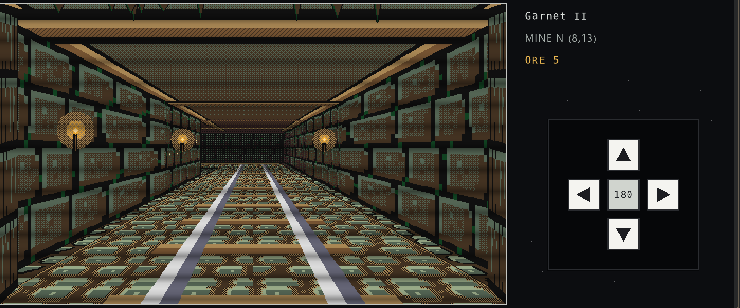
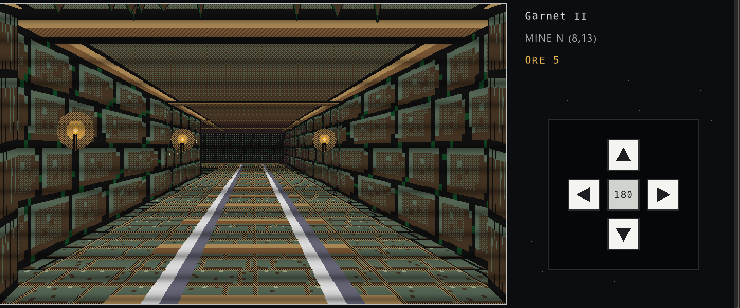
overworld: lay the road and mine floor as staggered slab courses

Changed region(s): [[0.0, 0.526, 0.6838, 0.9935]]

diff --git a/cpp/ui/Overworld.cpp b/cpp/ui/Overworld.cpp
@@ -1222,41 +1222,43 @@ void ShellView::RenderPlanetSurfacePixels(const Simulation& sim) {
       "................................",
   };
   static constexpr TileTex32 kStoneWallTex = TileTex32::FromArt(kStoneWallArt);
-  // Clouds of Xeen irregular rounded riverstone / cobblestone road tiles
-  // ('.'=crisp dark stone outline, ':'=warm earth mortar, '+'=stone face, '#'=sunlit stone crown)
+  // 242-row surface roads and underground flagstones: four staggered courses of
+  // wide slabs, each course a stone face with a shadowed underside and one ink
+  // seam row ('.'=ink joint, ':'=shadow under the slab above, '+'=stone face,
+  // '#'=chipped sunlit rim)
   static constexpr char kCobbleRoadArt[32][33] = {
-      "::.#####.:::::.######.::::.###.:",
-      ":.#######.:::.########.::.#####.",
-      ":.#++++++.:.:.#+++++++.::.#++++.",
-      ":.#++#+++.:::.#+++#+++.::.#++++.",
-      "::.++++++.::::.+++++++.:::.++++.",
-      ":::......::::::.......:::::....:",
-      "::::::::::::::::::::::::::::::::",
-      "####.:::::.########.::::.#####.:",
-      "++++.::::.##########.::.######.:",
-      "+++..::::.#+++++++++.::.#+++++.:",
-      "++..:::::.#+++#+++++.::.#++#++.:",
-      "...:::::::.+++++++++.:::.+++++.:",
-      ":::::::::::.........:::::.....::",
-      "::::::::::::::::::::::::::::::::",
-      "::.######.::::.#######.::::.###.",
-      ":.########.::.#########.::.#####",
-      ":.#+++++++.::.#++++++++.::.#++++",
-      ":.#++#++++.::.#+++#++++.::.#++++",
-      "::.+++++++.:::.++++++++.:::.++++",
-      ":::.......:::::........:::::....",
-      "::::::::::::::::::::::::::::::::",
-      "#####.::::.######.::::.######.::",
-      "+++++.:::.########.::.#######.::",
-      "++++..:::.#+++++++.::.#++++++.::",
-      "+++..::::.#++#++++.::.#+++#++.::",
-      "....::::::.+++++++.:::.++++++.::",
-      ":::::::::::.......:::::......:::",
-      "::::::::::::::::::::::::::::::::",
-      "::.#######.::::.######.::::.###.",
-      ":.#########.::.########.::.#####",
-      ":.#++++++++.::.#+++++++.::.#++++",
-      "::.++++++++.:::.+++++++.:::.++++",
+      ".++++#++++++.++#++++#++:+.++++++",
+      ".+++++++++++.++++:+++++++.++++++",
+      ".+++:+++++++.:+++++++++++.++++++",
+      ".+++++++++++.++++++++++++.++++++",
+      ".++:++++++++.++++++:+++++.++++++",
+      ".+++++++++++.++:+++++++++.++++++",
+      ".::::::::::+.:::::::::::+.::::::",
+      "................................",
+      ".++++++++.+#++++#++++++.++#+++++",
+      ".+:++++++.++++++++:++++.++++++++",
+      ".++++++:+.+++++++++++++.++++++:+",
+      ".+++++++:.:++++++++++++.++++++++",
+      ".++++++++.+++++++++++++.++++++++",
+      ".++++++++.+++++++++++++.++++++++",
+      ".:::::::+.::::::::::::+.::::::::",
+      "................................",
+      ".++++.+#++++#++++.++++#:+:++++.+",
+      ".++++.+++++++++++.++++++++++++.+",
+      ".++++.:++++++:+++.++++++++++++.+",
+      ".++++.++++++++++:.++++++++++++.+",
+      ".++++.++++++++:++.++++++++++++.+",
+      ".:+++.+++++++++++.++++++++++++.+",
+      ".:::+.::::::::::+.:::::::::::+.:",
+      "................................",
+      ".++#++++#+++++.+++#++++#++++.++:",
+      ".+++++:+++++++.+++++++++++++.:++",
+      ".+++++++++++++.+:+++++++++++.+++",
+      ".+++++++++++++.++:++++++++:+.+++",
+      ".+++++++++++++.:++++++:+++++.:++",
+      ".+++++++++++++.+++++++++++++.+++",
+      ".::::::::::::+.::::::::::::+.:::",
+      "................................",
   };
   static constexpr TileTex32 kCobbleRoadTex = TileTex32::FromArt(kCobbleRoadArt);
   // Clouds of Xeen jagged faceted craggy mountain / boulder rock texture
@@ -2439,11 +2441,10 @@ void ShellView::RenderPlanetSurfacePixels(const Simulation& sim) {
     }
   }
 
-  // Pass 3: Shade road bevel rims + world-anchored pebbles/dither in 16.16 fixed-point along active spans
+  // Pass 3: Shade road bevel rims and lay the stone tile in 16.16 fixed point along active spans
   auto isCurbInk = [&](std::uint8_t v) -> bool {
     return v == inkOut || (v >= kInkFogBase && v <= kInkFogBase + 4u);
   };
-  const int stepParity = (planetSurface_.px + planetSurface_.py + planetSurface_.dir) & 1;
   const float baseWx = static_cast<float>(planetSurface_.px) + 0.5f;
   const float baseWy = static_cast<float>(planetSurface_.py) + 0.5f;
   for (int gy = 0; gy < kGndH; ++gy) {
@@ -2455,7 +2456,6 @@ void ShellView::RenderPlanetSurfacePixels(const Simulation& sim) {
     const float invScaleX = kScanLut.invScaleX[gy];
     activeFog = static_cast<int>(kScanLut.fogStep[gy]);
     activeInk = inkForFog(activeFog);
-    const bool allowPebble = (z < 3.4f);
 
     const float lat0 = (static_cast<float>(xStart) + 0.5f - static_cast<float>(cxMid)) * invScaleX;
     // 128 texels/tile at 480x288 (4x4 cobble repeats per cell -> crisp 1:1 PC-98 Clouds of Xeen stones!)
@@ -2524,38 +2524,38 @@ void ShellView::RenderPlanetSurfacePixels(const Simulation& sim) {
           } else {
             putPx(x, y, pathHi);
           }
-        } else if (biomeIdx == 0 || oceanWorld) {
-          // Classic PC-98 Clouds of Xeen rounded stone cobblestones set in rich earthy mortar!
-          if (cob == 0u) {
-            putPx(x, y, (z < 2.6f) ? inkOut : pathDark);
-          } else if (cob == 1u) {
-            putPx(x, y, (biomeIdx == 0) ? pathDark : rockDark);
-          } else if (cob == 2u) {
-            putPx(x, y, (roadStyle == 0) ? rockMid : pathMid);
-          } else {
-            putPx(x, y, (roadStyle == 0) ? rockHi : pathHi);
-          }
-        } else if (iceWorld) {
-          // Frost-rimmed glacier cobblestones
-          if (cob == 0u) {
-            putPx(x, y, (z < 2.5f) ? inkOut : pathDark);
-          } else if (cob == 1u) {
-            putPx(x, y, pathDark);
-          } else if (cob == 2u) {
-            putPx(x, y, pathMid);
-          } else {
-            putPx(x, y, accent1);
-          }
         } else {
-          // Rock / Badlands: sun-baked rounded desert flagstones set in warm canyon dust
+          // 242-row roads: four staggered courses of wide slabs laid across
+          // the receding bands of the lane. Rows 7, 15, 23 and 31 of the tile
+          // are the cross joints, so the joints march toward the horizon; the
+          // column of ink in each course is a saw-cut end joint.
           if (cob == 0u) {
-            putPx(x, y, (z < 2.5f) ? inkOut : pathDark);
+            // Joint: black up close, mixed to the ground before the fog.
+            putPx(x, y, (z < 2.6f) ? inkOut : inkForFog(activeFog));
           } else if (cob == 1u) {
-            putPx(x, y, pathDark);
+            // Shadow under the far edge of the slab above.
+            putPx(x, y, (biomeIdx == 0 || iceWorld) ? pathDark : rockDark);
           } else if (cob == 2u) {
-            putPx(x, y, (allowPebble || ((x + y + stepParity) & 1) == 0) ? pathMid : rockMid);
+            // Slab body: one flat value, broken only by sparse pitting so the
+            // lanes read as dressed stone rather than a checkerboard.
+            const unsigned pit = (static_cast<unsigned>(gx) * 2654435761u) ^
+                                 (static_cast<unsigned>(gcy) * 40503u);
+            if ((pit & 63u) == 0u) {
+              putPx(x, y, rockDark);
+            } else if (iceWorld) {
+              // Ice: alternate courses carry the glacier's deeper blue so the
+              // slabs separate where pathMid and rockMid are the same value.
+              putPx(x, y, ((cobY >> 3) & 1) == 0 ? pathHi : pathMid);
+            } else {
+              putPx(x, y, pathMid);
+            }
+          } else if ((gx % 5) != 0) {
+            // Sunlit top rim, chipped every fifth texel so a worn edge reads
+            // instead of a painted stripe running to the horizon. roadStyle
+            // decides whether the slabs keep a bright or a weathered face.
+            putPx(x, y, iceWorld ? pathHi : (roadStyle == 0 ? pathHi : rockHi));
           } else {
-            putPx(x, y, rockHi);
+            putPx(x, y, pathMid);
           }
         }
       }
